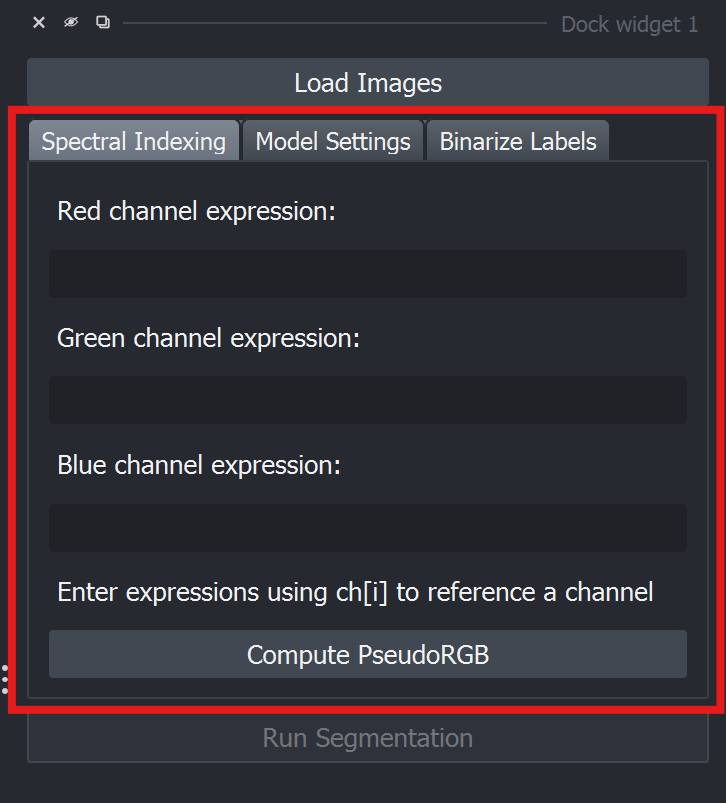
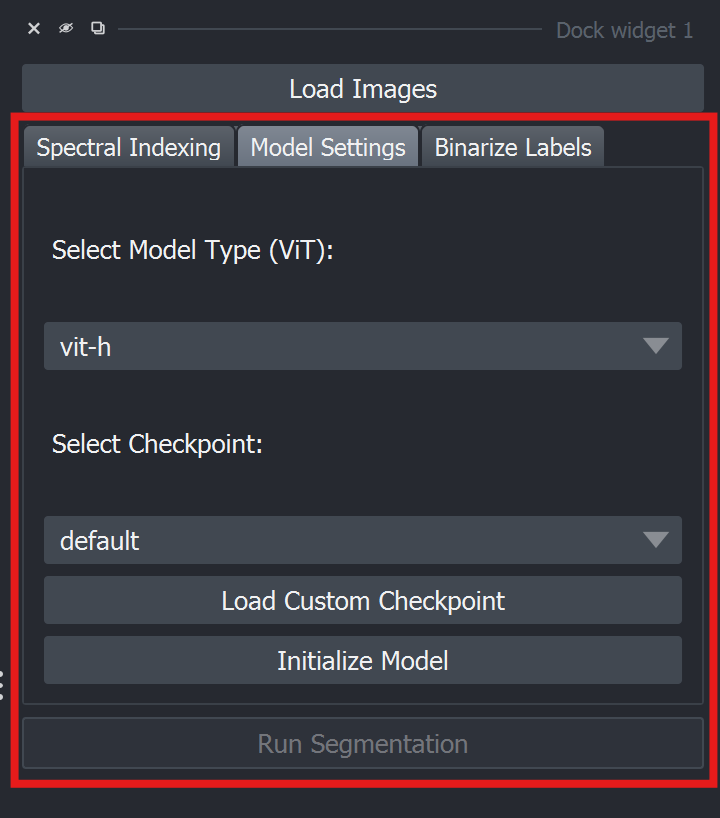
GITBOOK-18: No subject

diff --git a/docs/getting-started/publish-your-docs/main-functionalities.md b/docs/getting-started/publish-your-docs/main-functionalities.md
@@ -1,31 +1,53 @@
 ---
 description: >-
-  To enhance the analysis and annotation of loaded images, utilize the spectral
-  indexing, image segmentation, and label binarization functionalities of
-  GSense.
+  GSense provides 3 main functionalities for the analysis and annotation of
+  hyperspectral images - spectral indexing, image segmentation, and label
+  binarization.
 ---
 
 # Main tabs
 
-<figure><img src="../../.gitbook/assets/image (5).png" alt=""><figcaption></figcaption></figure>
+<figure><img src="../../.gitbook/assets/image (5) (1).png" alt=""><figcaption></figcaption></figure>
 
 
 
-[markdown.md](../../basics/markdown.md "mention")
+<details>
 
-Apply spectral indices to images to generate pseudo-RGB (false-color) images.
+<summary><a data-mention href="../../basics/markdown.md">markdown.md</a></summary>
 
-<figure><img src="../../.gitbook/assets/spectral indexing.png" alt="" width="363"><figcaption></figcaption></figure>
+Lets you compute pseudo-RGB images from spectral bands by referencing them in mathematical expressions using channel indices.
 
-[editor](../../basics/editor/ "mention")
+Example of acceptable expressions:
 
-Partition generated pseudo-RGB images into meaningful segments for downstream computer vision applications.
+```
+Red: ch[10] + ch[20]/4 + 3/ch[2]
+Green: ch[50]
+Blue: ch[2] - ch[6]
+```
 
-<figure><img src="../../.gitbook/assets/seg.png" alt="" width="360"><figcaption></figcaption></figure>
+Note: If an image in the loaded batch does not have the referenced channel data, pseudo-RGB image computation for that image is skipped.
 
-[binarizer.md](../../basics/binarizer.md "mention")
+<img src="../../.gitbook/assets/spectral indexing.png" alt="" data-size="original">
 
-The label binarizer functionality allows you to convert the labels in generated masks to binary labels for downstream machine learning model training purposes and other applications.&#x20;
+</details>
 
-<figure><img src="../../.gitbook/assets/bin.png" alt="" width="358"><figcaption></figcaption></figure>
+<details>
+
+<summary><a data-mention href="../../basics/editor/">editor</a></summary>
+
+Segment generated pseudo-RGB images using Meta AI's Segment Anything Model. Choose your model type and default or custom fine-tuned checkpoint to run segmentation with.
+
+![](<../../.gitbook/assets/image (2).png>)
+
+</details>
+
+<details>
+
+<summary><a data-mention href="../../basics/binarizer.md">binarizer.md</a></summary>
+
+We use SAM to generates all masks and the label binarizer helps reduce the labels to binary instead.
+
+![](<../../.gitbook/assets/image (5).png>)
+
+</details>
 

diff --git a/docs/basics/editor/default-models.md b/docs/basics/editor/default-models.md
@@ -10,7 +10,7 @@ description: Using default model checkpoints with ViT-huge and ViT-base backbone
        * `vit-h` (Vision Transformer - huge)
        * `vit-b` (Vision Transformer - base)
 
-       <figure><img src="../../.gitbook/assets/image.png" alt="" width="364"><figcaption></figcaption></figure>
+       <figure><img src="../../.gitbook/assets/image (6).png" alt="" width="364"><figcaption></figcaption></figure>
 2. Select Checkpoint
    * Select the `default` option in the **Checkpoint** dropdown.
 3.  Initialize the Model
@@ -20,4 +20,4 @@ description: Using default model checkpoints with ViT-huge and ViT-base backbone
 
     Note: Initializing takes a longer time the first time.
 
-<figure><img src="../../.gitbook/assets/image (1).png" alt=""><figcaption></figcaption></figure>
+<figure><img src="../../.gitbook/assets/image (1) (1).png" alt=""><figcaption></figcaption></figure>

diff --git a/docs/basics/editor/custom-models/README.md b/docs/basics/editor/custom-models/README.md
@@ -12,7 +12,7 @@ If you have your own SAM fine-tuned model checkpoint file (.pth) or would like t
 
     * In the **Model Settings** tab, select the model type (`vit-h` or `vit-b`) matching the model architecture of your custom checkpoint.
 
-    <figure><img src="../../../.gitbook/assets/image (2).png" alt="" width="364"><figcaption></figcaption></figure>
+    <figure><img src="../../../.gitbook/assets/image (2) (1).png" alt="" width="364"><figcaption></figcaption></figure>
 2. **Load the Custom Checkpoint**:
    * Click on the `Load Custom Checkpoint` button.
    * A file dialog will appear; browse and select your checkpoint file (`.pth` format).

diff --git a/docs/basics/markdown.md b/docs/basics/markdown.md
@@ -6,7 +6,7 @@ icon: monitor-waveform
 
 Spectral indexing empowers users to apply mathematical functions to spectral indices/bands, which can reveal specific characteristics or anomalies within images. This tool is valuable in areas such as remote sensing and agricultural analysis, where understanding spectral differences can lead to significant insights.
 
-<figure><img src="../.gitbook/assets/image (3).png" alt="" width="363"><figcaption></figcaption></figure>
+<figure><img src="../.gitbook/assets/image (3) (1).png" alt="" width="363"><figcaption></figcaption></figure>
 
 
 

diff --git a/docs/basics/editor/README.md b/docs/basics/editor/README.md
@@ -11,7 +11,7 @@ The image segmentation feature integrates Meta AI's Segment Anything Model (SAM)
 GSense supports Vit-h, Vit-b SAM backbones and uses the hugging face transformers library. Downloading model checkpoints for default Vit-h and Vit-b weights is not required.
 {% endhint %}
 
-<figure><img src="../../.gitbook/assets/image (4).png" alt="" width="360"><figcaption></figcaption></figure>
+<figure><img src="../../.gitbook/assets/image (4) (1).png" alt="" width="360"><figcaption></figcaption></figure>
 
 ### Usage
 
